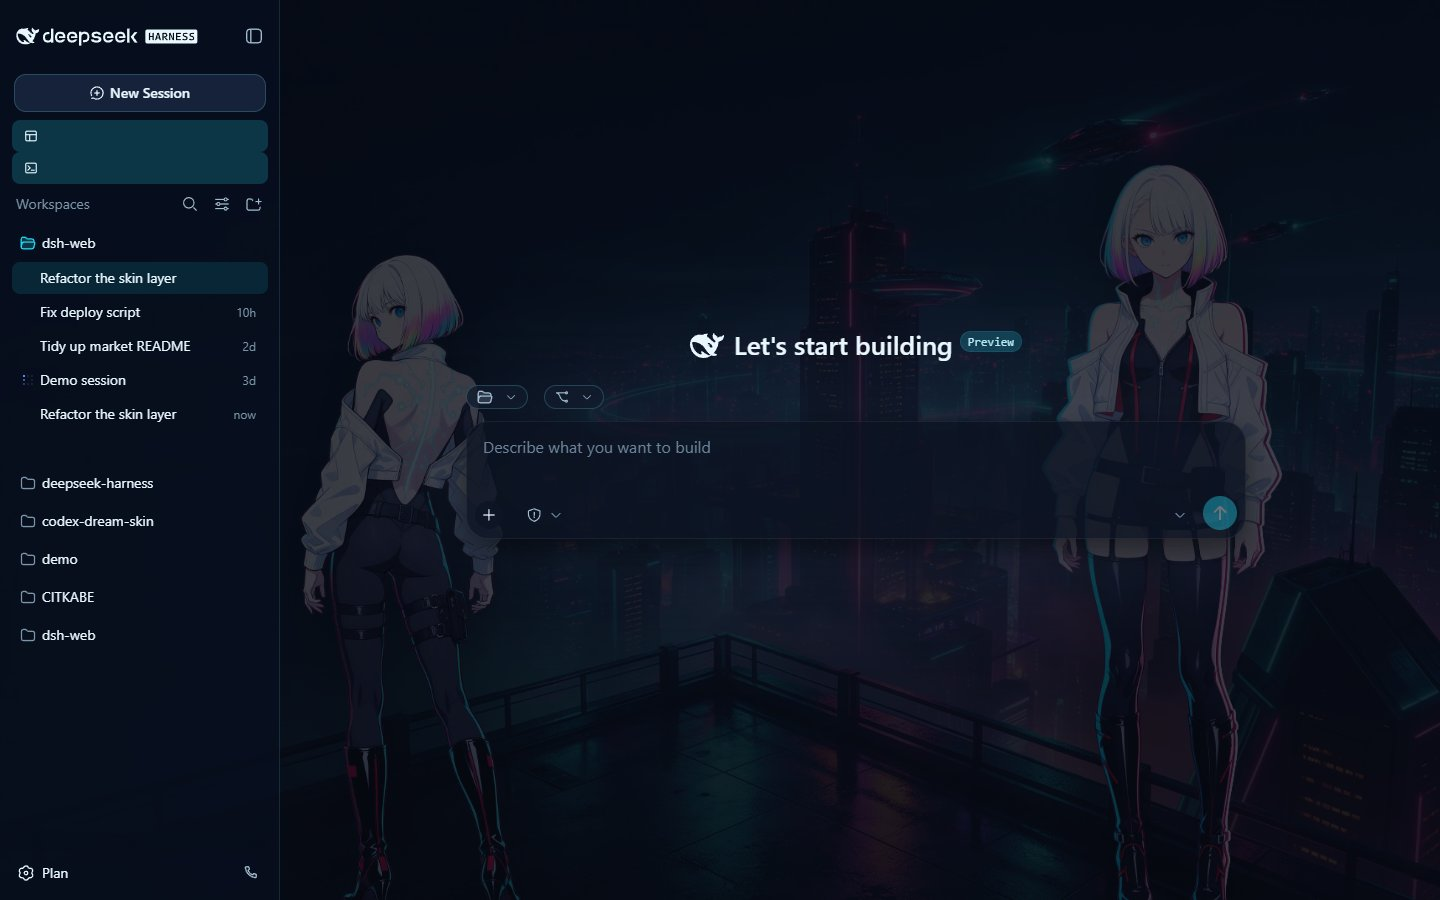
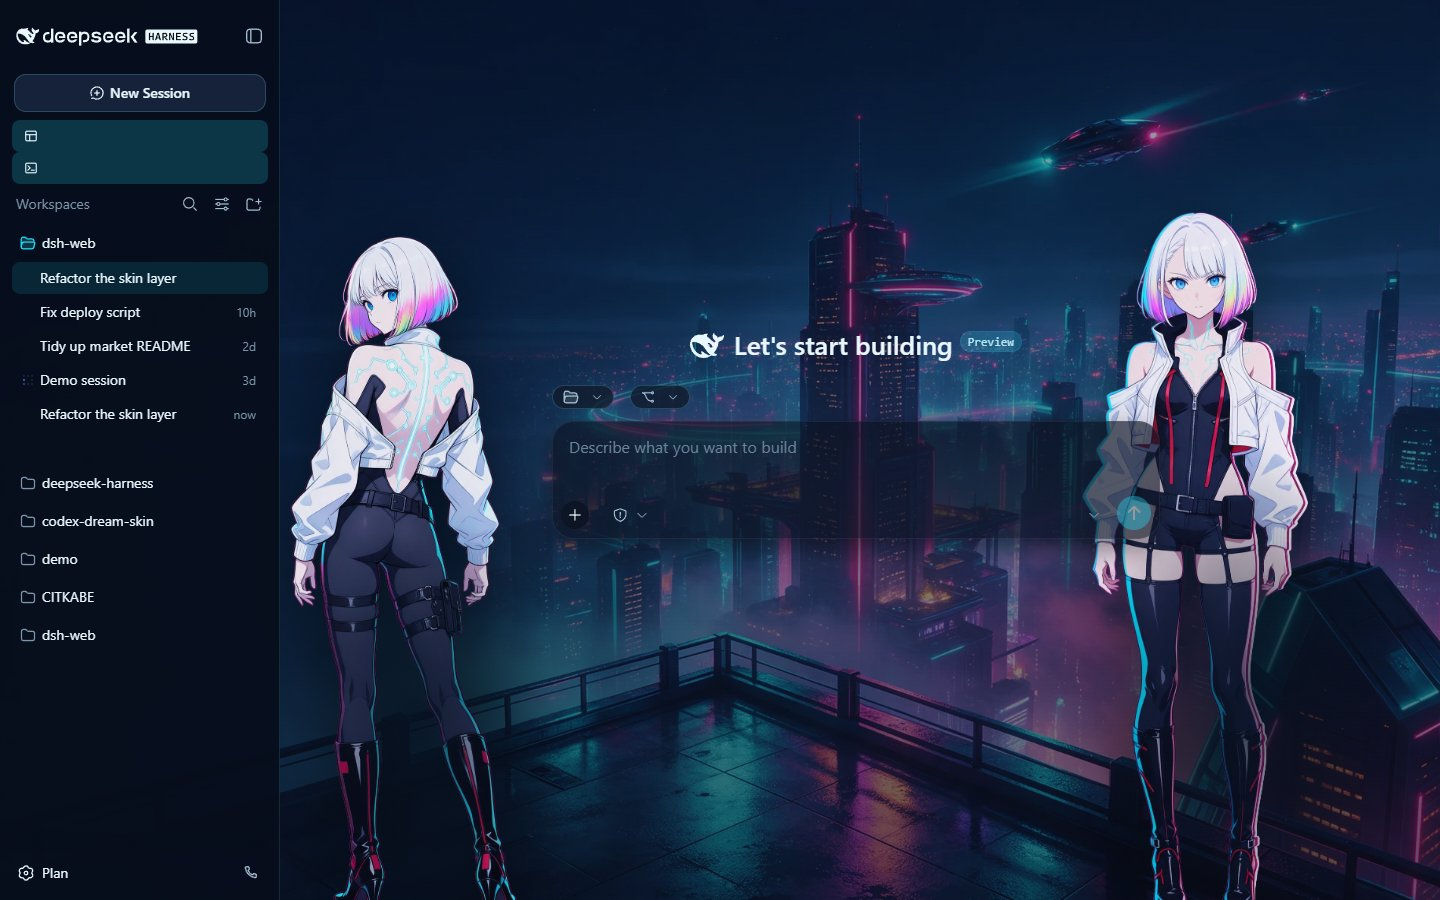
fix(skin): stand the characters in the wings, lift the canvas veil
The canvas token painted a 65-76% veil over the whole window; because the portraits sit behind the app surfaces that veil is what made them look transparent. bg-base is transparent now (as maid-atelier has it) and the bubbles/composer are thinner glass, so the artwork reads at full strength.

The data column is narrowed through the official --dsh-chat-content-width / --dsh-composer-card-max-width knobs, so both characters flank the column instead of being buried under the composer and the transcript. Each portrait also carries a soft backing bloom.

diff --git a/skins/lucy-nightsignal/patches.css b/skins/lucy-nightsignal/patches.css
@@ -3,9 +3,10 @@
  *
  * Contents:
  *   1. keep the declarative backgroundMedia layer paintable;
- *   2. the two character silhouettes (declarative, so the market preview
+ *   2. narrow the data column so the two characters own the outer wings;
+ *   3. the two character silhouettes (declarative, so the market preview
  *      renderer — which never runs skin hooks — shows them too);
- *   3. neon chrome on the shell surfaces.
+ *   4. neon chrome on the shell surfaces.
  *
  * Note: the patch pipeline prefixes every selector with
  * `html[data-dsh-skin="lucy-nightsignal"] `, so a `:root` rule here can never
@@ -40,6 +41,23 @@ body {
 
 /* 2 ---------------------------------------------------------------------- */
 
+/* The data column is narrowed on purpose: the two characters flank it in the
+   free wings instead of being buried under the composer and the transcript.
+   Both shell variables are the official geometry knobs (see the shell's
+   `--dsh-chat-content-width` / `--dsh-composer-card-max-width`). */
+:is(
+  [data-phase="hero"],
+  [data-phase="active"],
+  [data-slot="conversation"],
+  [data-dsh-surface="conversation"],
+  [class*="centerCol"]
+) {
+  --dsh-chat-content-width: clamp(520px, 40vw, 760px);
+  --dsh-composer-card-max-width: calc(var(--dsh-chat-content-width) + 32px);
+}
+
+/* 3 ---------------------------------------------------------------------- */
+
 body:before,
 body:after {
   content: "";
@@ -47,53 +65,78 @@ body:after {
   z-index: -1;
   bottom: clamp(-30px, -2vh, -10px);
   pointer-events: none;
-  background-repeat: no-repeat;
-  background-position: center bottom;
-  background-size: contain;
+  background-repeat: no-repeat, no-repeat;
+  background-position: center, center bottom;
+  background-size: auto, contain;
   opacity: 1;
   filter: saturate(1.06) contrast(1.04) drop-shadow(0 22px 30px #04101f5c);
   transition: height 0.6s cubic-bezier(0.22, 0.78, 0.2, 1);
 }
 
-/* Left: back view with the glowing cyberware traces, parked just right of the
-   sidebar so both characters flank the conversation column. */
+/* Left: back view with the glowing cyberware traces, hugging the sidebar. */
 body:before {
-  left: clamp(196px, 17vw, 296px);
-  width: clamp(210px, 23vw, 376px);
-  height: clamp(400px, 74vh, 920px);
-  background-image: url("assets/lucy-signal-left.webp");
+  left: clamp(198px, 17vw, 292px);
+  width: clamp(200px, 22vw, 356px);
+  height: clamp(400px, 76vh, 940px);
+  background-image:
+    radial-gradient(58% 46% at 55% 72%, #dfeaf473, #dfeaf400 72%),
+    url("assets/lucy-signal-left.webp");
 }
 
-/* Right: front view, the larger of the two. */
+/* Right: front view, the larger of the two, parked in the right wing. */
 body:after {
   right: 0;
-  width: clamp(240px, 29vw, 460px);
-  height: clamp(440px, 84vh, 1020px);
-  background-image: url("assets/lucy-signal-right.webp");
+  width: clamp(230px, 25vw, 400px);
+  height: clamp(440px, 86vh, 1040px);
+  background-image:
+    radial-gradient(58% 46% at 45% 72%, #dfeaf473, #dfeaf400 72%),
+    url("assets/lucy-signal-right.webp");
 }
 
 body[data-ds-dark-theme]:before,
 body[data-ds-dark-theme]:after {
-  filter: brightness(0.94) saturate(1.04) drop-shadow(0 24px 34px #00000073);
+  filter: brightness(0.96) saturate(1.05) drop-shadow(0 24px 34px #00000080);
+}
+
+body[data-ds-dark-theme]:before {
+  background-image:
+    radial-gradient(58% 46% at 55% 72%, #0a1526b8, #0a152600 72%),
+    url("assets/lucy-signal-left.webp");
+}
+
+body[data-ds-dark-theme]:after {
+  background-image:
+    radial-gradient(58% 46% at 45% 72%, #0a1526b8, #0a152600 72%),
+    url("assets/lucy-signal-right.webp");
 }
 
 /* A conversation in the column makes the characters settle a little, never
    fade: the manga presence is the point of the skin. */
 body[data-dsh-conversation-content="true"]:before {
-  height: clamp(340px, 62vh, 780px);
+  height: clamp(360px, 68vh, 860px);
 }
 
 body[data-dsh-conversation-content="true"]:after {
-  height: clamp(380px, 72vh, 860px);
+  height: clamp(400px, 78vh, 960px);
 }
 
 @media (width <= 1180px) {
+  :is(
+    [data-phase="hero"],
+    [data-phase="active"],
+    [data-slot="conversation"],
+    [data-dsh-surface="conversation"],
+    [class*="centerCol"]
+  ) {
+    --dsh-chat-content-width: clamp(460px, 52vw, 680px);
+  }
+
   body:before {
-    left: clamp(180px, 16vw, 260px);
+    left: clamp(180px, 16vw, 250px);
   }
 
   body:after {
-    width: clamp(210px, 26vw, 340px);
+    width: clamp(200px, 24vw, 320px);
   }
 }
 
@@ -107,7 +150,7 @@ body[data-dsh-conversation-content="true"]:after {
   }
 }
 
-/* 3 ---------------------------------------------------------------------- */
+/* 4 ---------------------------------------------------------------------- */
 
 /* Neon hairline across the top of the frame. */
 [data-slot="root"]:after {

diff --git a/skins/lucy-nightsignal/skin.css b/skins/lucy-nightsignal/skin.css
@@ -11,8 +11,8 @@
 
 :root {
   /* surfaces */
-  --dsw-alias-bg-base: #eaf3f9a6;
-  --dsw-alias-bg-layer-1: #ffffffb0;
+  --dsw-alias-bg-base: transparent;
+  --dsw-alias-bg-layer-1: #ffffffa3;
   --dsw-alias-bg-layer-2: #e9f2f9ba;
   --dsw-alias-bg-layer-3: #dae7f1c0;
   --dsw-alias-bg-layer-4: #cbdcecca;
@@ -111,9 +111,9 @@
   --dsw-specific-sidebar-nav-item-hover: #0891b218;
   --dsw-specific-sidebar-nav-item-active: #0891b22b;
   --dsw-specific-sidebar-nav-item-active-accent: #0891b2;
-  --dsw-specific-bubble: #ffffffc4;
+  --dsw-specific-bubble: #ffffffb0;
   --dsw-specific-bubble-highlight: #e4f6fb;
-  --dsw-specific-input-major: #ffffffb4;
+  --dsw-specific-input-major: #ffffff96;
   --dsw-specific-login-input: #ffffffcc;
   --dsw-specific-menu: #ffffffef;
   --dsw-specific-selector: #ffffffef;
@@ -145,7 +145,7 @@
 
 body[data-ds-dark-theme] {
   /* surfaces */
-  --dsw-alias-bg-base: #05080fc2;
+  --dsw-alias-bg-base: transparent;
   --dsw-alias-bg-layer-1: #0a1120c8;
   --dsw-alias-bg-layer-2: #101a2cd0;
   --dsw-alias-bg-layer-3: #16233cdb;
@@ -245,9 +245,9 @@ body[data-ds-dark-theme] {
   --dsw-specific-sidebar-nav-item-hover: #22d3ee1f;
   --dsw-specific-sidebar-nav-item-active: #22d3ee33;
   --dsw-specific-sidebar-nav-item-active-accent: #22d3ee;
-  --dsw-specific-bubble: #101a2cc8;
+  --dsw-specific-bubble: #101a2cb8;
   --dsw-specific-bubble-highlight: #16233c;
-  --dsw-specific-input-major: #0a1120c0;
+  --dsw-specific-input-major: #0a1120a8;
   --dsw-specific-login-input: #0a1120d9;
   --dsw-specific-menu: #0d1424f2;
   --dsw-specific-selector: #0d1424f2;
